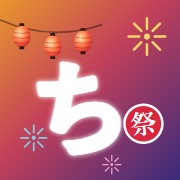
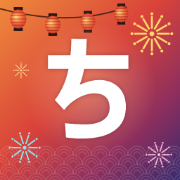
多摩祭の日のホーム画面のアイコン（元の「ち」のまま背景を祭りの絵に）と名前を「ちかく」だけに

diff --git a/tama/index.html b/tama/index.html
@@ -2729,7 +2729,7 @@ async function toggleNotifKind(k){
 // 届かない時に確かめること（端末の設定は、アプリからは見えない・変えられないため）
 function pushCheckList(){
   return isIOS()
-    ?'<b>iPhoneの設定を確かめてください</b><br>・設定 → 通知 → 「ちかく多摩キャン」で「通知を許可」「ロック画面」「通知センター」「バナー」をオン<br>・集中モード（おやすみモードなど）がオンになっていないか<br>・設定 → 通知 → 「時刻指定要約」に入っていないか（入っていると、決まった時刻にまとめてしか出ません）'
+    ?'<b>iPhoneの設定を確かめてください</b><br>・設定 → 通知 → 「ちかく」（前に追加した人は「ちかく多摩キャン」）で「通知を許可」「ロック画面」「通知センター」「バナー」をオン<br>・集中モード（おやすみモードなど）がオンになっていないか<br>・設定 → 通知 → 「時刻指定要約」に入っていないか（入っていると、決まった時刻にまとめてしか出ません）'
     :'<b>スマホの設定を確かめてください</b><br>・設定 → アプリ → Chrome（またはちかく）→ 通知 をオン<br>・サイレント・おやすみ時間・省電力モードで止まっていないか';
 }
 async function testPush(){
@@ -5527,10 +5527,10 @@ function gateFlowHTML(kind){
     bar26:`<div class="fscr">${page}<div class="fbar"><span class="furl in">chikaku-hosei…</span><span class="hl">…</span></div></div>`,
     menu26:`<div class="fscr">${page}<div class="fpop"><div>再読み込み</div><div>ブックマーク</div><div class="hl">共有 ⬆</div></div></div>`,
     share:`<div class="fscr">${page}<div class="fsheet"><div class="fsrow"><span></span><span></span><span></span><span></span></div><div>コピー</div><div>ブックマークを追加</div><div class="hl">ホーム画面に追加 ⊞</div></div></div>`,
-    add:`<div class="fscr"><div class="fadd"><span>✕</span><b>ホームに追加</b><span class="hl">追加</span></div><div class="faddb">${icon}<div><div class="fnm">ちかく多摩キャン</div><small>chikaku-hosei…</small></div></div>${kind==='ios26'?'<div class="ftg">Webアプリとして開く <span class="on"></span></div>':''}</div>`,
+    add:`<div class="fscr"><div class="fadd"><span>✕</span><b>ホームに追加</b><span class="hl">追加</span></div><div class="faddb">${icon}<div><div class="fnm">${appNameNow()}</div><small>chikaku-hosei…</small></div></div>${kind==='ios26'?'<div class="ftg">Webアプリとして開く <span class="on"></span></div>':''}</div>`,
     adots:`<div class="fscr"><div class="furl a">chikaku-hosei… <span class="hl">⋮</span></div>${page}</div>`,
     amenu:`<div class="fscr">${page}<div class="fpop r"><div>新しいタブ</div><div>ブックマーク</div><div class="hl">ホーム画面に追加</div></div></div>`,
-    ainst:`<div class="fscr">${page}<div class="fdlg"><b>アプリをインストール</b><div class="faddb">${icon}<div class="fnm">ちかく多摩キャン</div></div><div class="fdlgb"><span>キャンセル</span><span class="hl">インストール</span></div></div></div>`,
+    ainst:`<div class="fscr">${page}<div class="fdlg"><b>アプリをインストール</b><div class="faddb">${icon}<div class="fnm">${appNameNow()}</div></div><div class="fdlgb"><span>キャンセル</span><span class="hl">インストール</span></div></div></div>`,
     inapp:`<div class="fscr"><div class="fadd l"><span>✕</span><b>ちかく</b><span class="hl">…</span></div>${page}</div>`,
     inmenu:`<div class="fscr">${page}<div class="fsheet"><div>共有</div><div>リンクをコピー</div><div class="hl">${isIOS()?'Safariで開く':'ブラウザで開く'}</div></div></div>`,
   };
@@ -5545,6 +5545,7 @@ function gateFlowHTML(kind){
 }
 function renderHomeGate(){
   const g=$('#homeGate'); if(!g)return;
+  try{ placeFesIcon(); }catch(e){}   // 追加する前の画面（ログイン前）でも、多摩祭の日のアイコン・名前にしておく（2026-10-17）
   const ios=isIOS(), inApp=isInAppBrowser(), other=!inApp&&isIOSOtherBrowser(), ios26=iosSafariVer()>=26;
   // このブラウザで前に使っていた人（ログイン情報が残っている）には、アプリでは登録し直しになることを伝える
   let usedHere=false; try{ usedHere=Object.keys(localStorage).some(k=>/^sb-.*-auth-token$/.test(k)); }catch(e){}
@@ -5571,14 +5572,14 @@ function renderHomeGate(){
         :step(1,`画面の下の <span class="hgicon">⬆</span> <b>共有ボタン</b>を押す`,'四角から上向きの矢印が出ているマーク。見当たらない時は、下の <span class="hgicon">…</span> から「共有」','bar'))
       +step(2,`<b>「ホーム画面に追加」</b>を押す`,'見当たらない時は、メニューを下にスクロールするか「さらに表示」を押す','menu')
       +step(3,ios26?`<b>「Webアプリとして開く」はオンのまま</b>、右上の<b>「追加」</b>を押す`:`右上の<b>「追加」</b>を押す`,'','add')
-      +step(4,`ホーム画面にできた ${icon}<b>「ちかく多摩キャン」</b>から開く`,'このブラウザの画面は閉じてOKです');
+      +step(4,`ホーム画面にできた ${icon}<b>「${appNameNow()}」</b>から開く`,'このブラウザの画面は閉じてOKです');
     arrow=`<div class="hgarrow${ios26?' r':''}">⬇</div>`;
   }else{
     steps=(deferredInstall?`<button class="btn btn-primary hgbtn" onclick="doGateInstall()">📲 ホーム画面に追加する</button><div class="hgnote" style="margin:-4px 0 12px">うまくいかない時は、下の手順でも追加できます</div>`:'')
       +step(1,`画面右上の <span class="hgicon">⋮</span> を押す`,'','adots')
       +step(2,`<b>「アプリをインストール」</b>または<b>「ホーム画面に追加」</b>を押す`,'','amenu')
       +step(3,`<b>「インストール」</b>（または「追加」）を押す`)
-      +step(4,`ホーム画面にできた ${icon}<b>「ちかく多摩キャン」</b>から開く`,'このブラウザの画面は閉じてOKです');
+      +step(4,`ホーム画面にできた ${icon}<b>「${appNameNow()}」</b>から開く`,'このブラウザの画面は閉じてOKです');
   }
   // 2026-10-08 あおの指示：上のアプリの見本（宣伝）はやめて、ホーム画面に追加するまでの流れを画面の絵で見せる（gateFlowHTML）
   const flow=gateFlowHTML(inApp?'inapp':ios?(ios26?'ios26':'ios'):other?'':'android');
@@ -5607,7 +5608,7 @@ async function doGateInstall(){
 window.addEventListener('appinstalled',()=>{ const g=$('#homeGate'); if(g&&g.classList.contains('show'))
   g.innerHTML=`<div class="hglogo">ちかく</div><div style="flex:1;display:flex;flex-direction:column;justify-content:center;text-align:center">
     <div style="font-size:52px;margin-bottom:14px">✅</div><div class="hgh">ホーム画面に追加しました</div>
-    <div class="hgd">ホーム画面の<b>「ちかく多摩キャン」</b>のアイコンから開いてください。<br>このブラウザの画面は閉じてOKです。</div></div>`; });
+    <div class="hgd">ホーム画面の<b>「${appNameNow()}」</b>のアイコンから開いてください。<br>このブラウザの画面は閉じてOKです。</div></div>`; });
 let deferredInstall=null;   // Android/Chrome の「インストール」を受け取る
 window.addEventListener('beforeinstallprompt',e=>{ e.preventDefault(); deferredInstall=e; if(typeof needHomeGate==='function'&&needHomeGate())renderHomeGate(); });
 function openAddHome(){
@@ -7079,12 +7080,17 @@ function placeNowBar(){
 }
 // 多摩祭の日（17・18日。試す人は試しの日も）だけ、ホーム画面に追加した時のアイコンを祭りの絵にする（2026-10-15 あおの依頼）。
 // iPhone は追加した時の apple-touch-icon、Android は manifest の icons を使う。追加したあとのアイコンは、iPhone では変わらない（祭りの日に追加した人は祭りの絵のまま）
-const appIconSrc=()=>typeof tamasaiDay==='function'&&tamasaiDay()?'/icons/tamasai-180.png':'/icons/icon-192.png';
+const appIconSrc=()=>typeof tamasaiDay==='function'&&tamasaiDay()?'/icons/tamasai-180.png?v=2':'/icons/icon-192.png';
+// ホーム画面に追加した時の名前（多摩祭の日は「ちかく」だけ。2026-10-17）。追加のしかたの案内もこの名前で出す
+function appNameNow(){ return fesDayNow()?'ちかく':'ちかく多摩キャン'; }
 function placeFesIcon(){
   const on=tamasaiDay(), a=document.querySelector('link[rel="apple-touch-icon"]'), m=document.querySelector('link[rel="manifest"]');
-  const ic=on?'/icons/tamasai-180.png':'/icons/icon-192.png', mf=on?'/tama/manifest-tamasai.json':'/tama/manifest.json';
+  const ic=on?'/icons/tamasai-180.png?v=2':'/icons/icon-192.png', mf=on?'/tama/manifest-tamasai.json':'/tama/manifest.json';
   if(a&&a.getAttribute('href')!==ic)a.setAttribute('href',ic);
   if(m&&m.getAttribute('href')!==mf)m.setAttribute('href',mf);
+  // ホーム画面に追加した時の名前（iPhone）。多摩祭の日は「ちかく」だけ（2026-10-17 あおの依頼「多摩キャンとかはいらない」）。アイコンも同日、元の「ち」のまま背景を祭りの絵に描き替えた
+  const t=document.querySelector('meta[name="apple-mobile-web-app-title"]'), tn=on?'ちかく':'ちかく多摩キャン';
+  if(t&&t.getAttribute('content')!==tn)t.setAttribute('content',tn);
 }
 // 多摩祭の日は、アプリ全体を「祭り」の見た目に（2026-10-15 あおの依頼。CSS は html.matsuri／html.yoru）。
 // 祭りのサイト・アプリを調べて取り入れたもの：①ちょうちん・青海波・朱と金の色（その日だけの特別感） ②夕方（16:30〜）は夜空の見出しと灯ったちょうちん（キャンドル・花火の時間）
